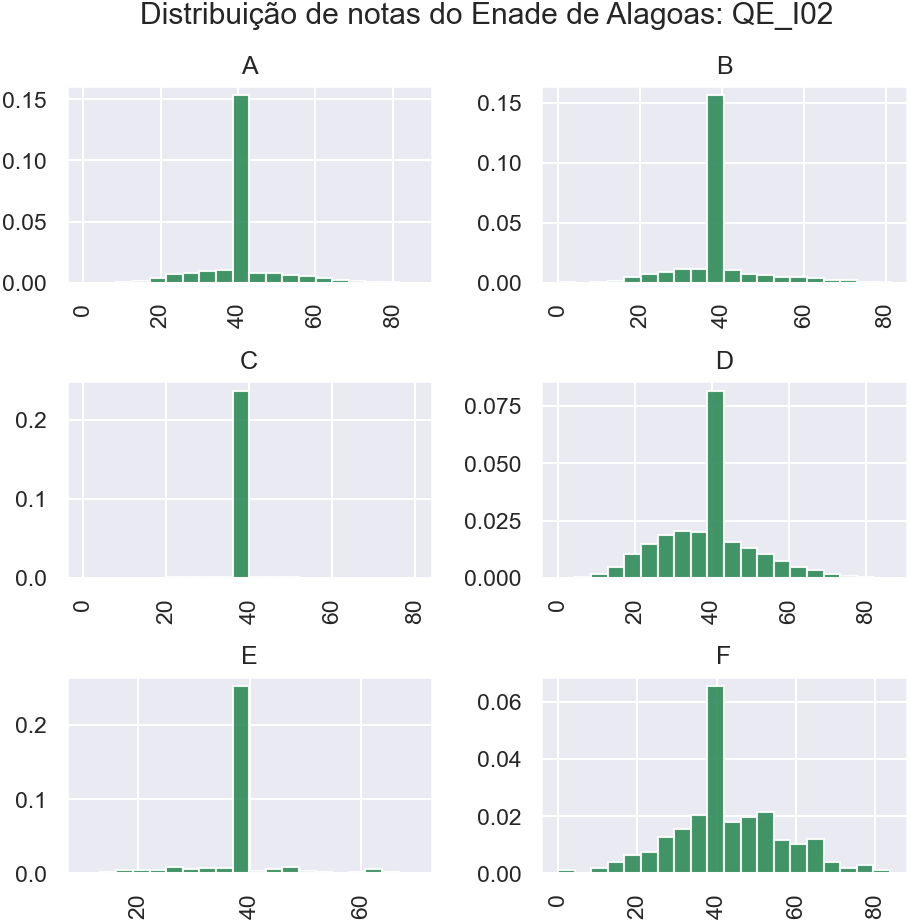
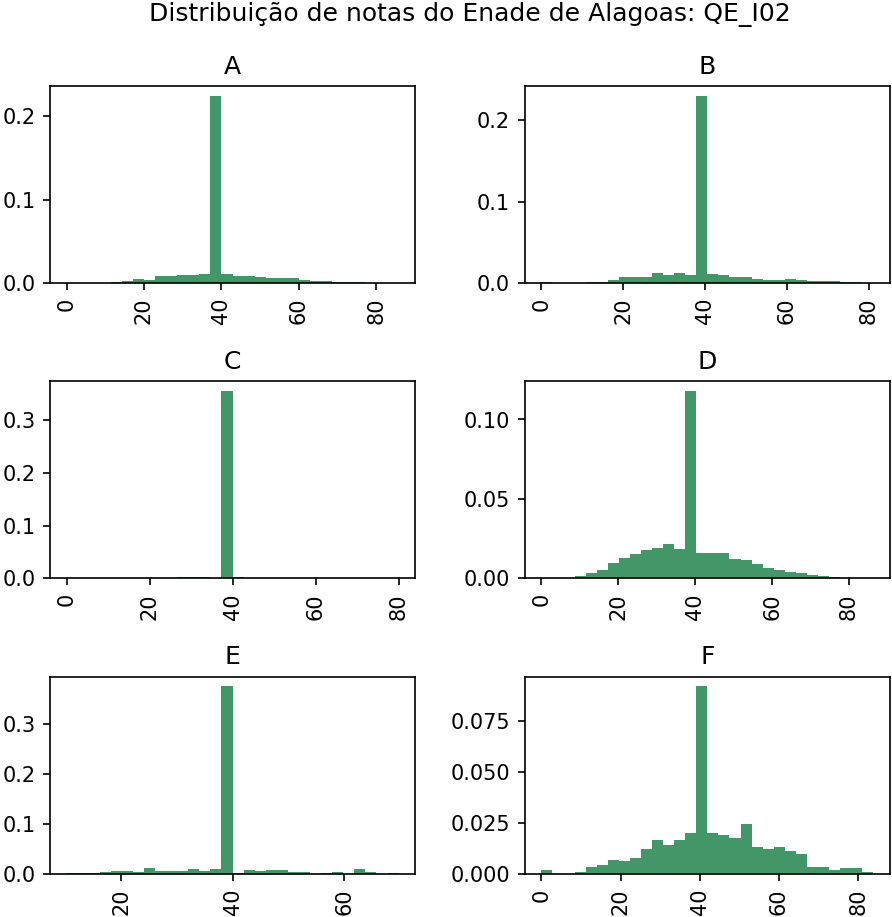
Distribuição normal.

diff --git a/compare_methods/analise_al.py b/compare_methods/analise_al.py
@@ -1,6 +1,6 @@
 # -*- coding: utf-8 -*-
 """
-Criação:
+Criação: Abril/2021
     
 Modificação: 
 
@@ -236,6 +236,26 @@ plt.legend();
 # Dica: você deve estar na pasta tcc_codes (Variable explorer)
 plt.savefig('../tcc_codes/analise_stats/AL/imagens/DIST_NOTA_AL.png', dpi=150, bbox_inches='tight', pad_inches=0.015);
 
+#%% Distribuição normal
+# Ref: https://www.geeksforgeeks.org/how-to-plot-normal-distribution-over-histogram-in-python/
+from scipy.stats import norm
+
+mu_al, std_al = norm.fit(labels_al)
+
+# Plot the histogram.
+plt.hist(labels_al, density=True, alpha=0.6, color='b')
+  
+# Plot the PDF.
+xmin, xmax = plt.xlim()
+x_al = np.linspace(xmin, xmax, 100)
+p_al = norm.pdf(x_al, mu_al, std_al)
+  
+plt.plot(x_al, p_al, 'k', linewidth=2)
+plt.title("Distribuição de notas do Enade de 2014 a 2018: Alagoas")
+plt.xlabel('Notas do Enade');
+plt.ylabel('Distribuição');
+plt.legend();
+plt.savefig('../tcc_codes/analise_stats/AL/imagens/DIST_GAUSS_AL.png', dpi=150, bbox_inches='tight', pad_inches=0.015);
 #%%
 # Ref: https://dev.to/thalesbruno/subplotting-with-matplotlib-and-seaborn-5ei8
 fig, axes = plt.subplots(2, 3, figsize=(10,10))
@@ -273,7 +293,7 @@ import matplotlib.colors as mcolors
 
 df_qe_i02 = dataset_al[['QE_I02', 'NT_GER']]
 
-df_qe_i02.hist(by="QE_I02", figsize=(7,7), layout=(3,2), bins=20,
+df_qe_i02.hist(by="QE_I02", figsize=(7,7), layout=(3,2), bins=30,
                alpha=0.9, density=True, color="seagreen")
 
 plt.suptitle('Distribuição de notas do Enade de Alagoas: QE_I02')
